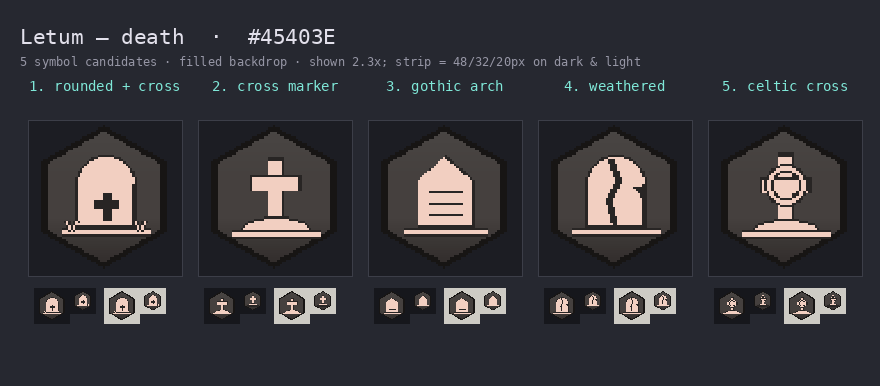
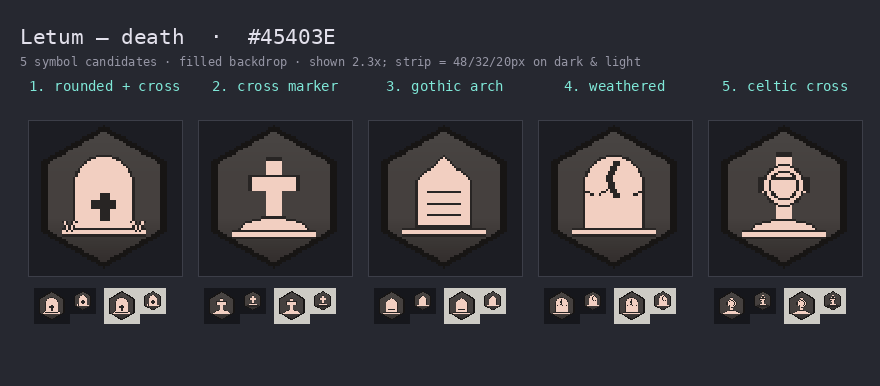
gallery: aspect-primals — tombstones rebuilt mirror-symmetric (shared stone helper, centred crack)

diff --git a/gallery/2026-07-20-aspect-primals/src/compounds.py b/gallery/2026-07-20-aspect-primals/src/compounds.py
@@ -601,39 +601,50 @@ def iso_skull(code):
     return im
 
 # ---- Letum: tombstone / grave-marker candidates ----
+AX = 31.5   # icon centre-line — everything mirror-symmetric about it
+
+def _round_stone(d, f, k, w=13, top=13, bot=45):
+    d.pieslice([AX-w, top, AX+w, top+2*w], 180, 360, fill=k)
+    d.pieslice([AX-w+1, top+1, AX+w-1, top+2*w-1], 180, 360, fill=f)
+    _poly(d, [(AX-w, top+w), (AX+w, top+w), (AX+w, bot), (AX-w, bot)], f, k, 0.94)
+
+def _ground(d, f, k, y=46):
+    _stroke_sharp(d, [(AX-18, y), (AX+18, y)], 2, f, k)
+
 def grave_rip(d, f, k):
-    d.pieslice([19, 13, 45, 39], 180, 360, fill=k); d.pieslice([20, 14, 44, 38], 180, 360, fill=f)
-    _poly(d, [(19, 26), (45, 26), (45, 45), (19, 45)], f, k, 0.92)
-    _stroke_sharp(d, [(32, 30), (32, 41)], 2, k, k); _stroke_sharp(d, [(27, 34), (37, 34)], 2, k, k)  # cross
-    _stroke_sharp(d, [(13, 46), (51, 46)], 2, f, k)                # ground
-    for gx in (17, 47):
+    _round_stone(d, f, k)
+    _stroke_sharp(d, [(AX, 30), (AX, 41)], 2, k, k); _stroke_sharp(d, [(AX-5, 34), (AX+5, 34)], 2, k, k)
+    _ground(d, f, k)
+    for s in (-1, 1):                                              # symmetric grass tufts
+        gx = AX + s*15
         _stroke_sharp(d, [(gx, 46), (gx-2, 42)], 1, f, k); _stroke_sharp(d, [(gx, 46), (gx+2, 42)], 1, f, k)
 
 def grave_cross(d, f, k):
-    _poly(d, [(29, 14), (35, 14), (35, 44), (29, 44)], f, k, 0.85)  # upright
-    _poly(d, [(21, 22), (43, 22), (43, 28), (21, 28)], f, k, 0.85)  # arms
-    d.pieslice([16, 40, 48, 54], 180, 360, fill=k); d.pieslice([17, 41, 47, 53], 180, 360, fill=f)  # mound
-    _stroke_sharp(d, [(13, 47), (51, 47)], 2, f, k)
+    _poly(d, [(AX-3, 14), (AX+3, 14), (AX+3, 44), (AX-3, 44)], f, k, 0.85)  # upright
+    _poly(d, [(AX-11, 22), (AX+11, 22), (AX+11, 28), (AX-11, 28)], f, k, 0.85)  # arms
+    d.pieslice([AX-16, 40, AX+16, 54], 180, 360, fill=k); d.pieslice([AX-15, 41, AX+15, 53], 180, 360, fill=f)
+    _ground(d, f, k, 47)
 
 def grave_arch(d, f, k):
-    _poly(d, [(20, 45), (20, 24), (32, 13), (44, 24), (44, 45)], f, k, 0.92)  # gothic pointed arch
+    _poly(d, [(AX-12, 45), (AX-12, 24), (AX, 13), (AX+12, 24), (AX+12, 45)], f, k, 0.92)  # pointed arch
     for yy in (29, 34, 39):
-        line(d, [(25, yy), (39, yy)], k)                           # engraved lines
-    _stroke_sharp(d, [(14, 46), (50, 46)], 2, f, k)
+        line(d, [(AX-7, yy), (AX+7, yy)], k)                       # engraved lines
+    _ground(d, f, k)
 
 def grave_crack(d, f, k):
-    d.pieslice([19, 13, 45, 39], 180, 360, fill=k); d.pieslice([20, 14, 44, 38], 180, 360, fill=f)
-    _poly(d, [(19, 26), (45, 26), (45, 45), (19, 45)], f, k, 0.92)
-    _stroke_sharp(d, [(30, 15), (33, 24), (29, 33), (32, 45)], 1, k, k)   # crack
-    d.polygon([(45, 26), (45, 33), (40, 27)], fill=k)              # chipped corner
-    _stroke_sharp(d, [(13, 46), (51, 46)], 2, f, k)
+    _round_stone(d, f, k)                                          # symmetric silhouette
+    _stroke_sharp(d, [(AX+1, 16), (AX-2, 23), (AX+1, 31)], 1, k, k)  # short upper crack
+    line(d, [(AX-2, 27), (AX-6, 30)], k)                          # a hairline offshoot
+    for s in (-1, 1):                                              # symmetric worn nicks at the shoulders
+        line(d, [(AX+s*12, 29), (AX+s*9, 30)], k)
+    _ground(d, f, k)
 
 def grave_celtic(d, f, k):
-    _poly(d, [(29, 12), (35, 12), (35, 45), (29, 45)], f, k, 0.85)  # upright
-    _poly(d, [(21, 23), (43, 23), (43, 29), (21, 29)], f, k, 0.85)  # arms
-    ring(d, 32, 26, 8, 2, f, k)                                    # halo ring
-    d.pieslice([16, 41, 48, 55], 180, 360, fill=k); d.pieslice([17, 42, 47, 54], 180, 360, fill=f)
-    _stroke_sharp(d, [(13, 47), (51, 47)], 2, f, k)
+    _poly(d, [(AX-3, 12), (AX+3, 12), (AX+3, 45), (AX-3, 45)], f, k, 0.85)  # upright
+    _poly(d, [(AX-11, 23), (AX+11, 23), (AX+11, 29), (AX-11, 29)], f, k, 0.85)  # arms
+    ring(d, AX, 26, 8, 2, f, k)                                    # halo ring
+    d.pieslice([AX-16, 41, AX+16, 55], 180, 360, fill=k); d.pieslice([AX-15, 42, AX+15, 54], 180, 360, fill=f)
+    _ground(d, f, k, 47)
 
 LETUM_GRAVES = ("#45403E", "death", [
     ("rip", "rounded + cross", grave_rip),

diff --git a/gallery/2026-07-20-aspect-primals/NOTES.md b/gallery/2026-07-20-aspect-primals/NOTES.md
@@ -205,3 +205,12 @@ Glacies/Aether are light beds -> dark glyphs; Letum is a dark bed -> light glyph
 - Letum: 5 tombstone/grave candidates (compound-letum2.png): rounded+cross ·
   cross marker · gothic arch · weathered · celtic cross. Improves the earlier
   plain grave.
+
+## Tombstones — symmetry fix
+Rebuilt all 5 grave candidates mirror-symmetric about the icon centre-line
+(AX=31.5) via shared _round_stone/_ground helpers (were built about x=32, 0.5px
+off, plus the weathered chip broke silhouette symmetry). Symbol asymmetry ~halved
+(gothic arch 3.4%). Weathered now keeps a symmetric silhouette with a short upper
+crack instead of a full-height split. (Backdrop hexagon carries ~5.9% sub-pixel
+rasterisation asymmetry — baked into all icons, not visually lopsided; left as-is
+so the 15 locked icons don't change.)
